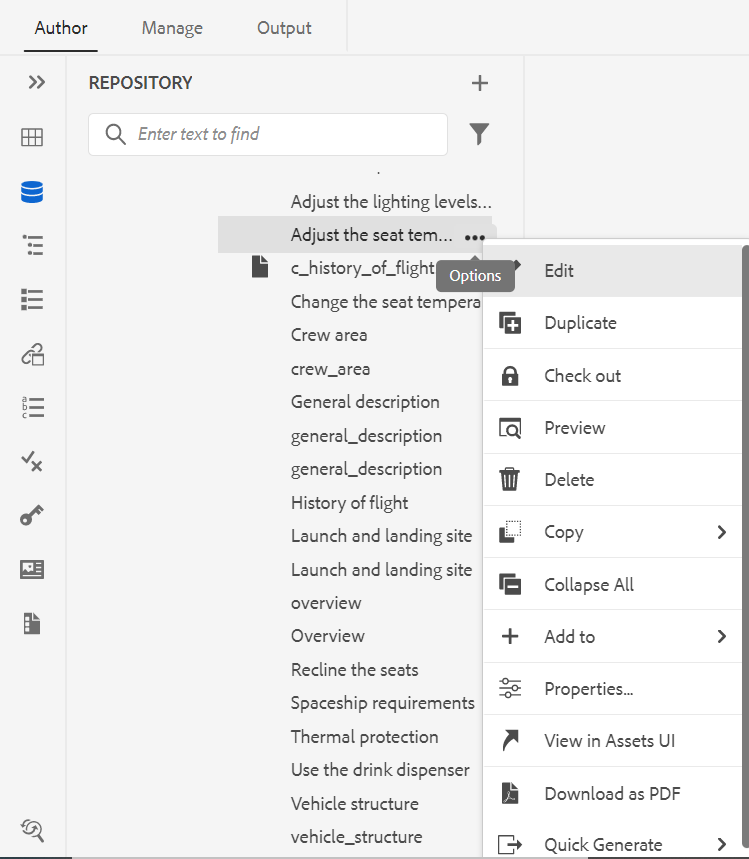
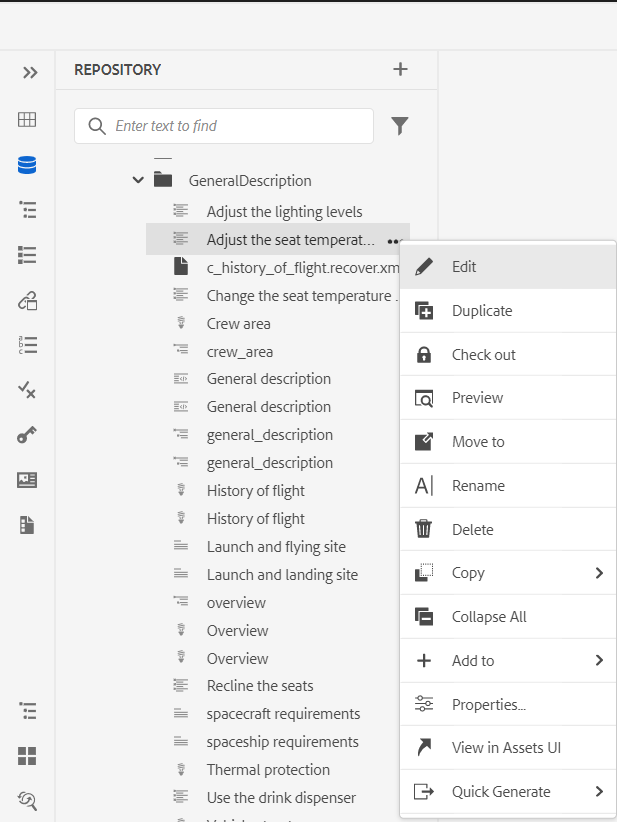
2305 updates
added rename and move to options

diff --git a/help/tutorials/user-guide/web-editor-features.md b/help/tutorials/user-guide/web-editor-features.md
@@ -757,6 +757,8 @@ You will see different options in the Options menu depending on whether you sele
 -   Duplicate
 -   Checkout/Check In
 -   Preview
+-   Move to
+-   Rename
 -   Delete
 -   Copy
 -   Collapse All
@@ -780,6 +782,42 @@ The various options in the Options menu are explained below:
 -   **Preview**: Get a quick preview of the file \(.dita/.xml\) without opening it.
 
     ![](images/quick-preview_cs.png){width="800" align="left"}
+
+-  **Rename**: Use this option to rename the selected file. Enter the name of the new file in the **Rename Asset** dialog.  
+    - You can rename a file of any type. 
+    - You can’t change the extension of a file. 
+    - Two files cannot have the same name. So, you cannot rename a file to a name that already exists. An error is displayed. 
+
+-  **Move to**: Use this option to move the selected file to another folder.  
+   - You can either type the name of the destination folder or choose **Select Path** to select the destination folder.    
+   - You can move a file of any type to any destination within the Content folder. 
+   - Two files cannot have the same name. So, you cannot move a file to a folder where a file with the same name already exists.  
+
+    If you try to move a file to a folder where a file with the same name but a different title exists, the Rename and move file dialog is displayed, and you need to rename the file before moving it. The moved file in the destination folder has the new file name.  
+
+    ![](images/rename-move-asset.png){width="550" align="left"}
+
+    >[!Note]
+    > You can also drag and drop a file to another destination folder. 
+
+    **Exclusion scenarios**   
+
+    AEM Guides doesn’t allow you to rename or move a file in the following scenarios: 
+
+    - You cannot move or rename a file if it’s part of a review or a translation workflow. 
+
+    - If any other user checks out the file, you cannot rename or move it, you will not see the Rename or Move to option for the file. 
+
+    [!NOTE] 
+    > If your administrator has given you the permissions on a folder, only then the **Rename** or **Move to** options are displayed. 
+
+    <details>
+    <summary> Cloud Services </summary>
+
+    Renaming or moving any file does not break any existing references from or to the file, as every file has a unique UUID. 
+    </details>
+
+
 
 -   **Delete**: Use this option to delete the selected file. A confirmation prompt is displayed before deleting the file.
 
